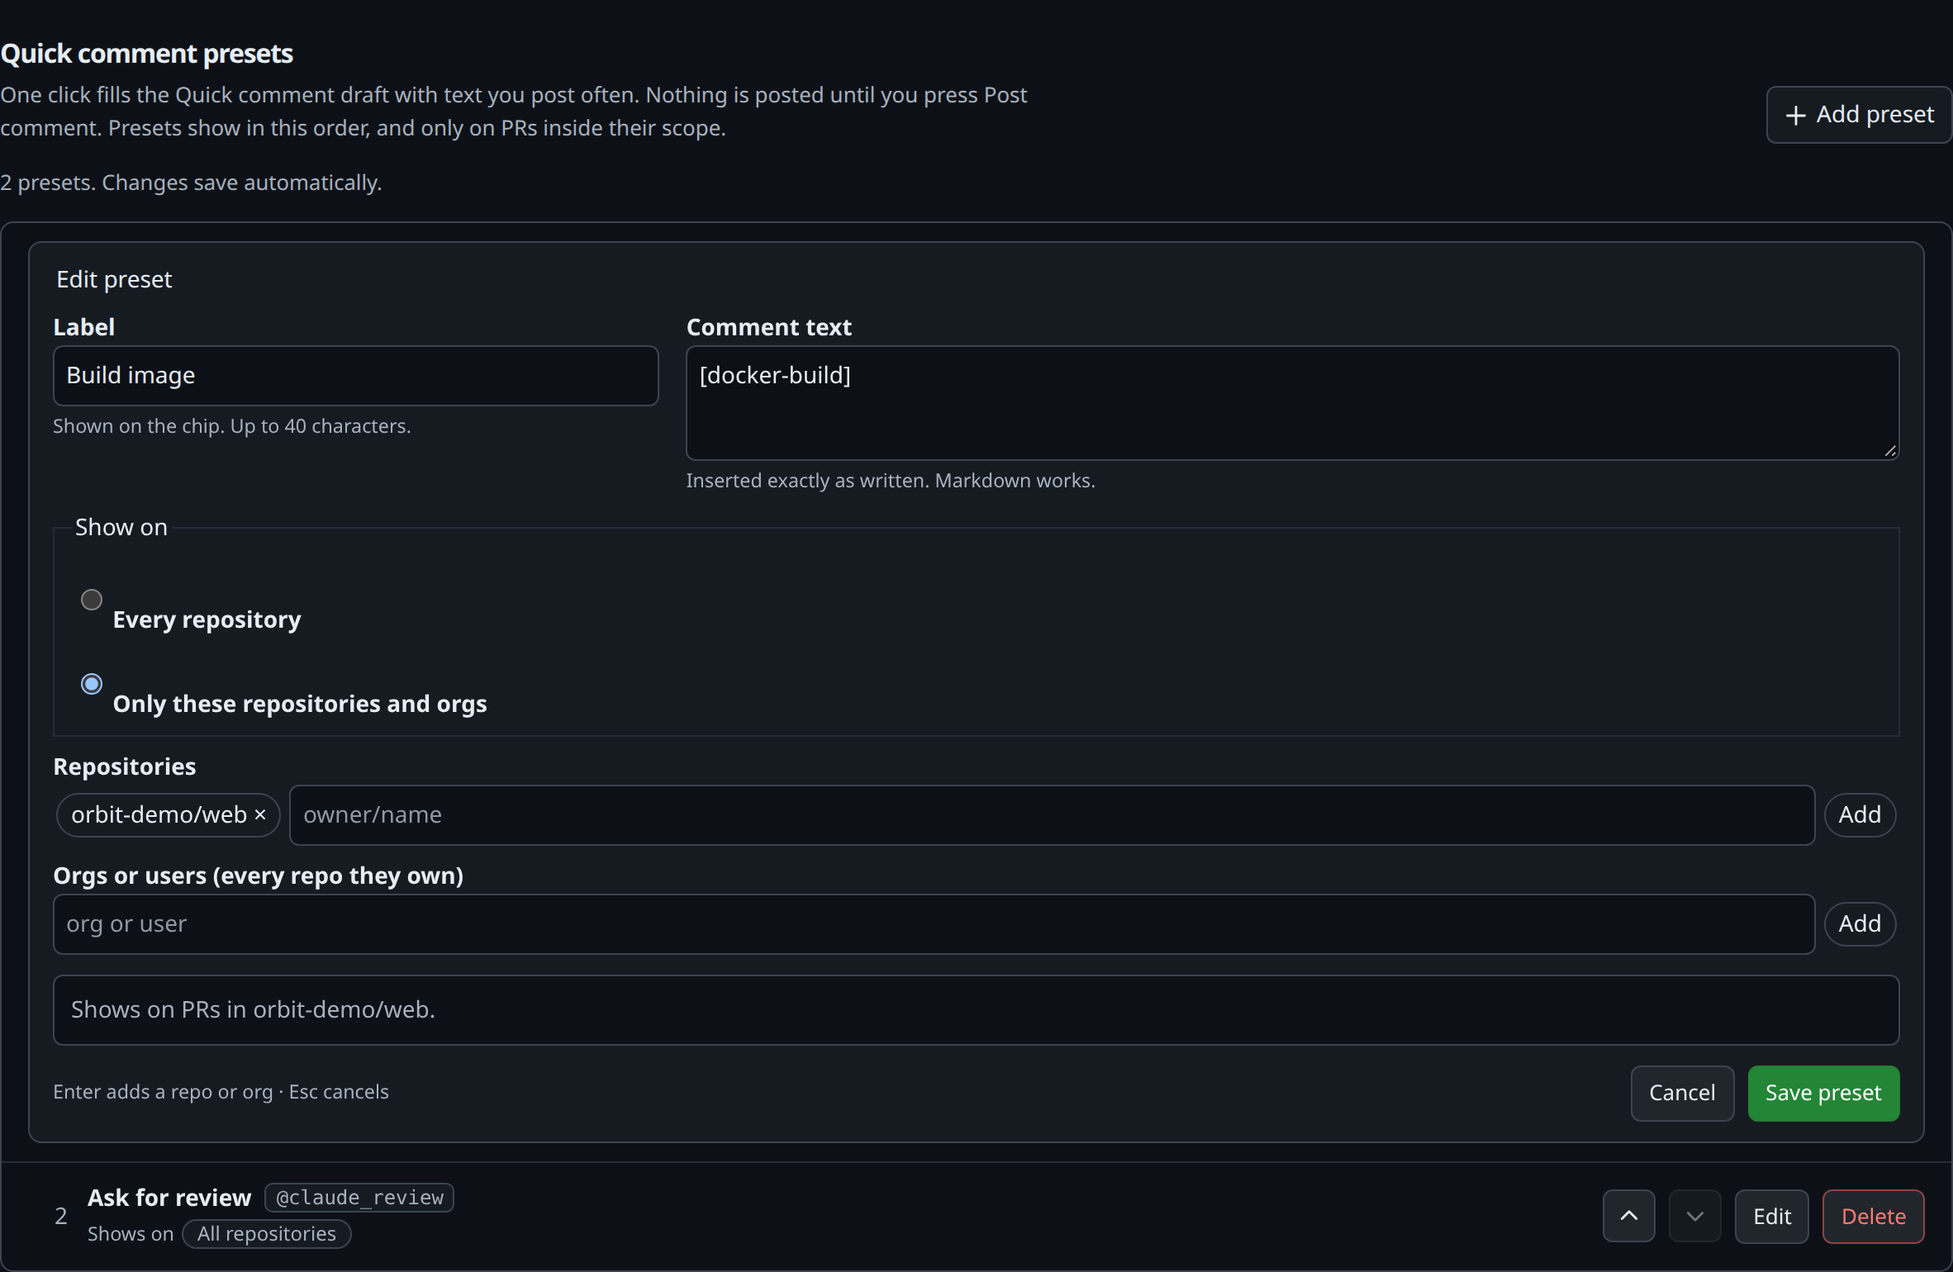
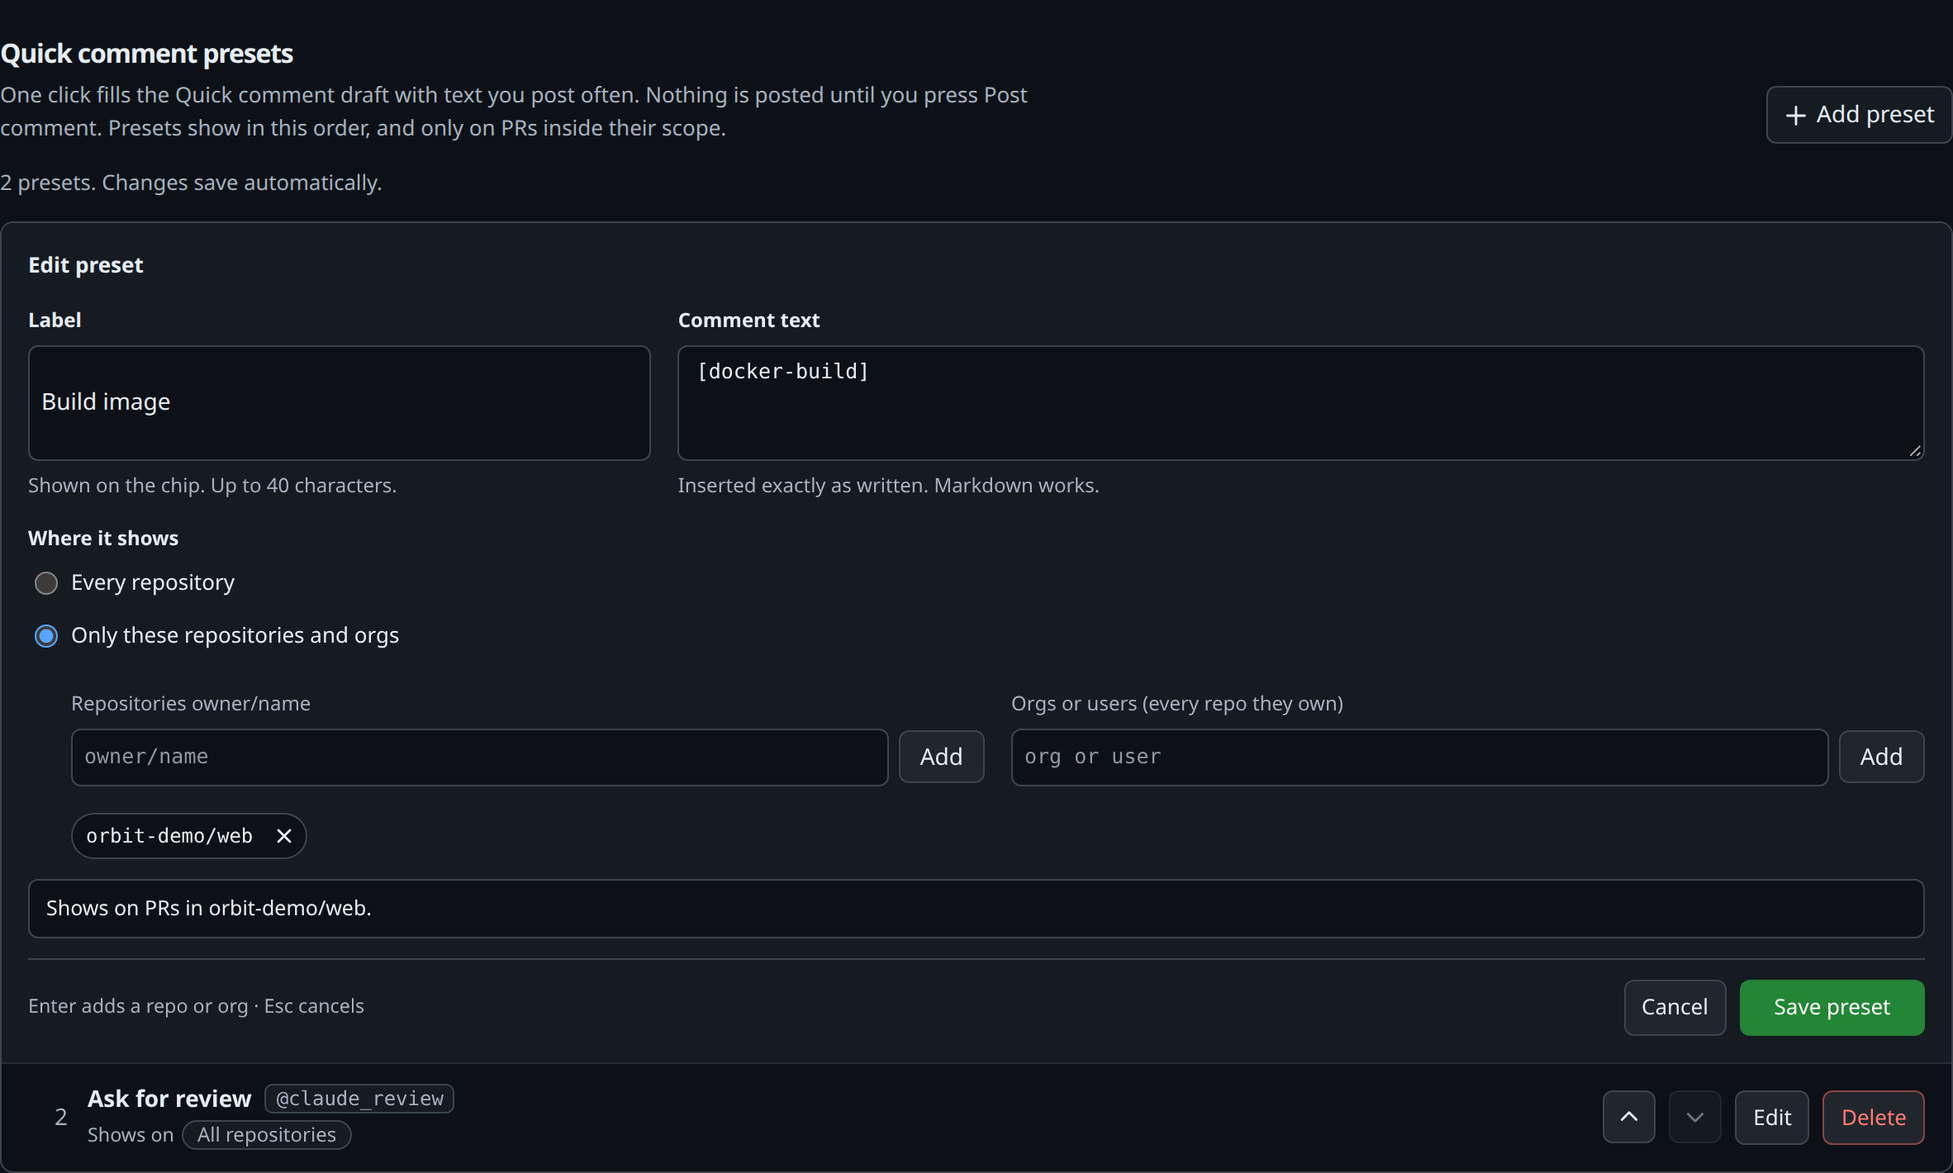
Match inline preset editor geometry and scope controls

diff --git a/public/presets.css b/public/presets.css
@@ -4,4 +4,5 @@
 .comment-popover .preset-picker{padding:10px 12px 0;margin:0}.comment-popover .preset-caption{font-size:11px;text-transform:uppercase;font-weight:600;letter-spacing:.06em;margin-bottom:8px}.comment-popover .preset-caption button{min-height:0;padding:0;color:var(--color-muted);font-size:12px}.comment-popover .preset-chips{gap:6px}.comment-popover .preset-chips button{align-items:center;justify-content:center;margin:0;padding:0 10px;font-size:12px;font-weight:500}.comment-popover .preset-more{border-style:dashed;background:transparent}
 .qc-compose{padding:10px 12px;color:var(--color-muted);font-size:12px}.qc-compose textarea.form-input{margin:6px 0;min-height:96px;padding:8px 10px;font:12.5px/1.5 ui-monospace,monospace}.qc-footer{border-top:1px solid var(--color-border);background:var(--color-surface);flex-wrap:wrap;font-size:12px;color:var(--color-muted)}.qc-footer .form-actions{margin-left:auto}.qc-footer button{min-height:32px;font-size:13px}.qc-footer button[type=submit]{background:#238636;color:white;border-color:transparent}.qc-footer button[type=submit]:disabled{opacity:.55}
 .comment-popover .preset-chips button:not(.preset-more){background:var(--color-surface);color:var(--color-text);gap:5px;font-weight:500;white-space:nowrap}.comment-popover .preset-chips button.in-draft{background:light-dark(#dafbe1,rgba(63,185,80,.12));border-color:light-dark(#398747,rgba(63,185,80,.5))}.comment-popover .preset-chips .in-draft svg,.preset-note[data-inserted=true]{color:light-dark(#116329,#3fb950)}.comment-popover .preset-caption button{font-weight:400;letter-spacing:normal;text-transform:none;line-height:16px}.comment-popover .preset-caption{line-height:16px}.comment-popover .qc-footer a:any-link{color:var(--color-accent)}.qc-compose .preset-note{min-height:18px;font-size:12px;line-height:18px}.qc-footer .form-actions{flex-basis:100%;justify-content:flex-end}.qc-footer button{padding:0 12px;font-weight:500}.qc-footer button[type=submit]{padding:0 14px;font-weight:600}
+.settings-frame .preset-list li:has(>.preset-form){padding:0}.settings-frame .preset-form{border:0;border-radius:0;padding:16px}.preset-form>fieldset>legend{font-size:13px;font-weight:600;padding:0;margin-bottom:14px}.preset-fields>div{display:flex;flex-direction:column;gap:6px}.settings-frame .preset-fields label,.settings-frame .preset-fields small{margin:0;font-size:12px}.preset-fields input,.preset-fields textarea{flex:1}.settings-frame .preset-form fieldset.scope-choice{padding:0;border:0;margin:14px 0;min-width:0}.scope-choice legend{font-size:12px;font-weight:600;padding:0}.settings-frame .preset-form .scope-choice label{display:flex;align-items:center;gap:8px;min-height:28px;margin:4px 0;font-size:13px;font-weight:400;cursor:pointer}.scope-choice input[type=radio]{display:inline-block;width:14px;height:14px;min-height:0;margin:0;accent-color:var(--color-accent)}.scope-columns{display:grid;grid-template-columns:repeat(2,minmax(0,1fr));gap:16px}.settings-frame .preset-form>fieldset{margin:0}.settings-frame .preset-fields :is(input,textarea){padding:6px 10px;font-size:13px;line-height:1.5}.settings-frame #pf-body{font:12.5px/1.5 ui-monospace,monospace;min-height:70px}.settings-frame .scope-column label{font-weight:400;font-size:12px;color:var(--color-muted);margin:0 0 6px}.scope-columns{padding-inline-start:26px}.scope-input input{font:12.5px/1.5 ui-monospace,monospace!important}.settings-frame .scope-choice input[type=radio]{margin-inline-start:4px}.settings-frame .preset-form button[type=submit]{min-width:112px}.settings-frame #quick-comment-editor #pf-scope{font-size:12.5px;color:var(--color-text);padding:8px 10px}.scope-input,.scope-tags,.scope-tag{display:flex;align-items:center;gap:6px}.scope-input input{flex:1;min-width:0}.scope-input button{border-radius:6px;min-height:32px;padding:0 12px}.scope-tags{flex-wrap:wrap}.scope-tag{border-radius:999px;border:1px solid var(--color-border);padding-left:8px;background:var(--color-page);font-size:12px}.scope-tag[data-repo=true]{font-family:ui-monospace,monospace}.settings-page .scope-tag button{background:none;border:0;border-radius:999px;width:26px;height:26px;padding:0}.scope-column small{display:block;min-height:16px}.preset-form .preset-actions{padding-top:12px;border-top:1px solid var(--color-border)}@media(max-width:37.5em){.scope-columns{grid-template-columns:1fr}.preset-fields input{min-height:32px}}
 .settings-page .preset-top strong{font-size:20px}.settings-page .preset-top span,.preset-help,.preset-hint-key{color:var(--color-muted)}.settings-page .preset-top span{margin-inline-start:8px;font-size:13px}.settings-page .button-link,.settings-page button{display:inline-flex;align-items:center;justify-content:center;gap:6px}.preset-summary{display:flex;align-items:center;flex-wrap:wrap;gap:8px}.preset-summary code{background:var(--color-surface);border:1px solid var(--color-border);border-radius:5px;padding:1px 6px}.scope-badge[data-repo=true]{font-family:ui-monospace,monospace}.settings-page button[id^=del-],.settings-page #confirm-preset{color:light-dark(#b62324,#ff7b72);border-color:light-dark(#d18282,#884645)}.settings-page button:disabled{opacity:.45}.settings-page button.primary{background:#238636;color:white;border:1px solid #287e35}.preset-fields{display:grid;grid-template-columns:minmax(0,1fr) minmax(0,2fr);gap:16px}.preset-fields small{display:block;margin-top:4px}.preset-hint-key{margin-right:auto}.settings-page #pf-scope{border:1px solid var(--color-border);border-radius:6px;padding:10px;margin:12px 0;background:var(--color-page)}@media(max-width:37.5em){.preset-fields{grid-template-columns:1fr}}body.settings-page{box-sizing:border-box;width:100%;max-width:1280px;margin:auto;padding:20px}.settings-frame{width:100%;box-sizing:border-box;padding:24px 28px 32px;border:1px solid var(--color-border);border-radius:12px;background:var(--color-page)}.settings-frame .preset-top{border:0}.settings-page .preset-heading{align-items:flex-end;flex-wrap:wrap}.settings-page .preset-heading>div{max-width:640px}.settings-page .preset-heading p{font-size:13px;line-height:1.5;margin:4px 0 0}.settings-page #new-preset:not(:only-child){color:var(--color-text);background:var(--color-surface);border:1px solid var(--color-border)}.settings-page .preset-status{margin:14px 0;color:var(--color-muted)}@media(max-width:37.5em){.settings-frame{padding:16px 12px 24px}}.settings-page .preset-top{background:transparent;padding:0;margin:0}.settings-page #quick-comment-editor{padding:20px 0 0;margin:0}.settings-frame .preset-heading p{margin:4px 0 0!important}.settings-frame .preset-list{margin:0}.settings-frame .preset-item{align-items:center;gap:12px;grid-template-columns:24px minmax(0,1fr) auto}.settings-frame .preset-number{text-align:right}.settings-frame .preset-list li{padding:11px 16px}.settings-frame .preset-summary code,.settings-frame .scope-badge{font-size:12px;line-height:16px}.settings-frame .scope-badge{padding-block:0}.settings-frame .preset-summary code{padding-block:0}.settings-frame .preset-actions button{min-height:32px;font-size:13px}.settings-frame button[aria-label^=Move]{width:32px;padding:0} @media(max-width:37.5em){.settings-frame .preset-item{grid-template-columns:24px minmax(0,1fr)}}.settings-page .preset-heading h1{margin:0;font-size:16px}@media(max-width:37.5em){body.settings-page{padding:16px 12px 24px}}.preset-top,.preset-heading,.preset-caption,.preset-actions{display:flex;align-items:center;justify-content:space-between;gap:8px}.preset-top{padding:12px 18px;border-bottom:1px solid var(--color-border);background:var(--color-surface)}#quick-comment-editor{padding:18px}#quick-comment-editor h2{margin:0;font-size:1.05rem}#quick-comment-editor p{margin:4px 0 12px;color:var(--color-muted)}.preset-heading button,.preset-actions button{white-space:nowrap}.preset-list{list-style:none;padding:0;margin:10px 0;border:1px solid var(--color-border);border-radius:8px;overflow:hidden}.preset-list:empty{display:none}.preset-list li{padding:12px}.preset-list li+li{border-top:1px solid var(--color-divider)}.preset-item{display:grid;grid-template-columns:1.5rem minmax(0,1fr) auto;align-items:start;gap:8px}.preset-item code{display:block;white-space:pre-wrap;overflow-wrap:anywhere;color:var(--color-muted)}.preset-item small,.preset-number{color:var(--color-muted)}.preset-actions{justify-content:flex-end;flex-wrap:wrap}.scope-badge,.preset-tokens button,.preset-chips button{display:inline-flex;border:1px solid var(--color-border);border-radius:999px;padding:2px 8px;margin:2px;background:var(--color-surface)}.preset-form{padding:12px;border:1px solid var(--color-border);border-radius:8px;background:var(--color-surface)}.preset-form>fieldset{border:0;min-width:0;padding:0}.preset-form label,.preset-form textarea,.preset-form input:not([type=radio]){display:block}.preset-form label{margin-top:8px;font-weight:600}.preset-form input:not([type=radio]),.preset-form textarea,.preset-filter{box-sizing:border-box;width:100%;padding:7px;background:var(--color-page);color:var(--color-text);border:1px solid var(--color-border);border-radius:6px;font:inherit}.preset-form textarea{min-height:70px}.preset-form fieldset fieldset{margin:8px 0;border:1px solid var(--color-divider)}.preset-tokens,.preset-chips{display:flex;flex-wrap:wrap;align-items:center;gap:3px}.preset-tokens input{flex:1;min-width:8em}.preset-error,[aria-invalid=true]{color:var(--color-danger,#cf4545)}.preset-note,.preset-status{min-height:1.3em;font-size:.8rem}.preset-empty,.preset-hint{padding:10px;border:1px dashed var(--color-border);border-radius:8px}.preset-empty{text-align:center;padding:28px}.preset-picker{margin:12px 0}.preset-caption{color:var(--color-muted);font-size:.8rem;margin-bottom:4px}.preset-caption button,.preset-hint button{background:transparent;border:0;color:var(--color-accent);text-decoration:underline}.preset-chips button{min-height:28px}.preset-chips .in-draft{color:var(--color-success,#299854);border-color:currentColor}.preset-close{float:right}.preset-overflow{padding:8px;margin-top:6px;border:1px solid var(--color-border);border-radius:6px;max-height:12rem;overflow:auto}.preset-overflow button{display:block;width:100%;text-align:left}.comment-count[aria-expanded=true]{outline:2px solid var(--color-accent)}.comment-popover{max-height:90dvh;overflow:auto;width:min(440px,calc(100vw - 16px))}@media(max-width:37.5em){.preset-item{grid-template-columns:1.5rem minmax(0,1fr)}.preset-item .preset-actions{grid-column:2;justify-content:start}.pr-row button.comment-count{min-height:32px}.pr-row button.comment-count:after{content:'Comment'}.comment-popover{width:calc(100vw - 16px)}.preset-heading{align-items:start}.preset-heading p{font-size:.85rem}}

diff --git a/public/quick-presets.js b/public/quick-presets.js
@@ -30,12 +30,12 @@ function preview(p){
 }
 function msg(k,help=''){return html`<small class=${errors[k]?'preset-error':'preset-help'} id=${'msg-'+k}>${errors[k]??help}</small>`;}
 function icon(path){return html`<svg width="14" height="14" viewBox="0 0 16 16" fill="none" stroke="currentColor" stroke-width="1.6" stroke-linecap="round" stroke-linejoin="round" aria-hidden="true"><path d=${path}></path></svg>`;}
-function tokens(k){return html`<label for=${'pf-'+k}>${k==='repos'?'Repositories':'Orgs or users (every repo they own)'}</label><div class="preset-tokens">${editor[k].map(v=>html`<button type="button" aria-label=${'Remove '+v} @click=${()=>{editor[k]=editor[k].filter(x=>x!==v);draw();focus('pf-'+k);}}>${v} ×</button>`)}<input id=${'pf-'+k} aria-invalid=${!!errors[k]} aria-describedby=${'msg-'+k} placeholder=${k==='repos'?'owner/name':'org or user'} .value=${editor.pending[k]} @input=${e=>{editor.pending[k]=e.target.value;delete errors[k];draw();}} @keydown=${e=>{if(e.key==='Enter'){e.preventDefault();token(k);}}}><button type="button" @click=${()=>token(k)}>Add</button></div>${msg(k)}`;}
-function form(){return html`<form class="preset-form" novalidate @submit=${submit}><fieldset ?disabled=${busy}><legend>${editor.id?'Edit':'New'} preset</legend><div class="preset-fields"><div><label for="pf-label">Label</label><input id="pf-label" maxlength="40" placeholder="Build image" aria-invalid=${!!errors.label} aria-describedby="msg-label" .value=${editor.label} @input=${e=>{editor.label=e.target.value;delete errors.label;draw();}}>${msg('label','Shown on the chip. Up to 40 characters.')}</div><div><label for="pf-body">Comment text</label><textarea id="pf-body" maxlength="4000" placeholder="[docker-build]" aria-invalid=${!!errors.body} aria-describedby="msg-body" .value=${editor.body} @input=${e=>{editor.body=e.target.value;delete errors.body;draw();}}></textarea>${msg('body','Inserted exactly as written. Markdown works.')}</div></div><fieldset><legend>Show on</legend>${[false,true].map(s=>html`<label><input type="radio" name="scope" .checked=${s===editor.scoped} @change=${()=>{editor.scoped=s;errors={};draw();if(s)focus('pf-repos');}}> ${s?'Only these repositories and orgs':'Every repository'}</label>`)}</fieldset>${editor.scoped?html`${tokens('repos')}${tokens('orgs')}`:nothing}<p id="pf-scope" tabindex="-1">${preview(editor)}</p>${msg('scope')}<div class="preset-actions"><small class="preset-hint-key">Enter adds a repo or org · Esc cancels</small><button type="button" @click=${cancel}>Cancel</button><button class="primary" type="submit">${busy?'Saving…':editor.id?'Save preset':'Add preset'}</button></div></fieldset></form>`;}
+function tokens(k){return html`<div class="scope-column"><label for=${'pf-'+k}>${k==='repos'?'Repositories owner/name':'Orgs or users (every repo they own)'}</label><div class="scope-input"><input id=${'pf-'+k} aria-invalid=${!!errors[k]} aria-describedby=${'msg-'+k} placeholder=${k==='repos'?'owner/name':'org or user'} .value=${editor.pending[k]} @input=${e=>{editor.pending[k]=e.target.value;delete errors[k];draw();}} @keydown=${e=>{if(e.key==='Enter'){e.preventDefault();token(k);}}}><button type="button" @click=${()=>token(k)}>Add</button></div>${msg(k)}<div class="scope-tags">${editor[k].map(v=>html`<span class="scope-tag" data-repo=${k==='repos'}>${k==='orgs'?'org ':''}${v}<button type="button" aria-label=${'Remove '+v} @click=${()=>{editor[k]=editor[k].filter(x=>x!==v);draw();focus('pf-'+k);}}>${icon('m4 4 8 8m0-8-8 8')}</button></span>`)}</div></div>`;}
+function form(){return html`<form class="preset-form" novalidate @submit=${submit}><fieldset ?disabled=${busy}><legend>${editor.id?'Edit':'New'} preset</legend><div class="preset-fields"><div><label for="pf-label">Label</label><input id="pf-label" maxlength="40" placeholder="Build image" aria-invalid=${!!errors.label} aria-describedby="msg-label" .value=${editor.label} @input=${e=>{editor.label=e.target.value;delete errors.label;draw();}}>${msg('label','Shown on the chip. Up to 40 characters.')}</div><div><label for="pf-body">Comment text</label><textarea rows="3" id="pf-body" maxlength="4000" placeholder="[docker-build]" aria-invalid=${!!errors.body} aria-describedby="msg-body" .value=${editor.body} @input=${e=>{editor.body=e.target.value;delete errors.body;draw();}}></textarea>${msg('body','Inserted exactly as written. Markdown works.')}</div></div><fieldset class="scope-choice"><legend>Where it shows</legend>${[false,true].map(s=>html`<label><input type="radio" name="scope" .checked=${s===editor.scoped} @change=${()=>{editor.scoped=s;errors={};draw();if(s)focus('pf-repos');}}> ${s?'Only these repositories and orgs':'Every repository'}</label>`)}</fieldset>${editor.scoped?html`<div class="scope-columns">${tokens('repos')}${tokens('orgs')}</div>`:nothing}<p id="pf-scope" tabindex="-1">${preview(editor)}</p>${msg('scope')}<div class="preset-actions"><small class="preset-hint-key">Enter adds a repo or org · Esc cancels</small><button type="button" @click=${cancel}>Cancel</button><button class="primary" type="submit">${busy?'Saving…':editor.id?'Save preset':'Add preset'}</button></div></fieldset></form>`;}
 function row(p,i){if(editor?.id===p.id)return form();if(deleting===p.id)return html`<strong>Delete “${p.label}”?</strong><p>This removes the preset, not any posted comments.</p><button @click=${cancel}>Cancel</button> <button class="preset-error" id="confirm-preset" @click=${()=>remove(p,i)}>Delete preset</button>`;
   const tags=[...(p.repos??[]),...(p.orgs??[]).map(o=>'org '+o)];if(!tags.length)tags.push(p.repos||p.orgs?'No repositories':'All repositories');
   return html`<div class="preset-item"><span class="preset-number">${i+1}</span><div><div class="preset-summary"><strong>${p.label}</strong><code>${p.body}</code></div><small>Shows on ${tags.slice(0,3).map(t=>html`<span class="scope-badge" data-repo=${t.includes('/')}>${t}</span>`)} ${tags.length>3?html`<span title=${tags.slice(3).join(', ')}>+${tags.length-3} more</span>`:nothing}</small></div><div class="preset-actions"><button aria-label=${'Move '+p.label+' up'} ?disabled=${busy||!i} @click=${()=>move(p,-1)}>${icon('m3 10 5-5 5 5')}</button><button aria-label=${'Move '+p.label+' down'} ?disabled=${busy||i===presets.length-1} @click=${()=>move(p,1)}>${icon('m3 6 5 5 5-5')}</button><button id=${'edit-'+p.id} ?disabled=${busy} @click=${()=>edit(p)}>Edit</button><button id=${'del-'+p.id} ?disabled=${busy} @click=${()=>{reset();deleting=p.id;draw();focus('confirm-preset');}}>Delete</button></div></div>`;}
-function draw(){if (!$('quick-comment-editor')) return; render(html`<div class="preset-heading"><div><h1>Quick comment presets</h1><p>One click fills the Quick comment draft with text you post often. Nothing is posted until you press Post comment. Presets show in this order, and only on PRs inside their scope.</p></div>${presets.length?html`<button class="primary" id="new-preset" ?disabled=${busy} @click=${()=>edit()}>${icon('M8 2v12M2 8h12')} Add preset</button>`:nothing}</div><div class="preset-status" role="status">${status || (presets.length ? `${presets.length} preset${presets.length===1?'':'s'}. Changes save automatically.`:'')} ${retry?html`<button @click=${retry}>Retry</button>`:undo?html`<button id="undo-preset" @click=${undo}>Undo</button>`:nothing}</div>${editor&&!editor.id?form():nothing}${!presets.length&&!editor?html`<div class="preset-empty"><strong>No presets yet</strong><p>Save comments you post often, like [docker-build] or @claude_review.</p><button class="primary" id="new-preset" @click=${()=>edit()}>Create your first preset</button></div>`:nothing}<ol class="preset-list">${repeat(presets,p=>p.id,(p,i)=>html`<li>${row(p,i)}</li>`)}</ol>`,$('quick-comment-editor'));}
+function draw(){if (!$('quick-comment-editor')) return; render(html`<div class="preset-heading"><div><h1>Quick comment presets</h1><p>One click fills the Quick comment draft with text you post often. Nothing is posted until you press Post comment. Presets show in this order, and only on PRs inside their scope.</p></div>${presets.length?html`<button class="primary" id="new-preset" ?disabled=${busy} @click=${()=>edit()}>${icon('M8 2v12M2 8h12')} Add preset</button>`:nothing}</div><div class="preset-status" role="status">${status || (presets.length ? `${presets.length} preset${presets.length===1?'':'s'}. Changes save automatically.`:'')} ${retry?html`<button @click=${retry}>Retry</button>`:undo?html`<button id="undo-preset" @click=${undo}>Undo</button>`:nothing}</div>${!presets.length&&!editor?html`<div class="preset-empty"><strong>No presets yet</strong><p>Save comments you post often, like [docker-build] or @claude_review.</p><button class="primary" id="new-preset" @click=${()=>edit()}>Create your first preset</button></div>`:nothing}<ol class="preset-list">${editor&&!editor.id?html`<li>${form()}</li>`:nothing}${repeat(presets,p=>p.id,(p,i)=>html`<li>${row(p,i)}</li>`)}</ol>`,$('quick-comment-editor'));}
 if ($('quick-comment-editor')) {
   $('dashboard-link').href = '/' + location.search;
   document.addEventListener('keydown', e=>{if(e.key==='Escape'&&!busy&&(editor||deleting)){e.preventDefault();cancel();}});
